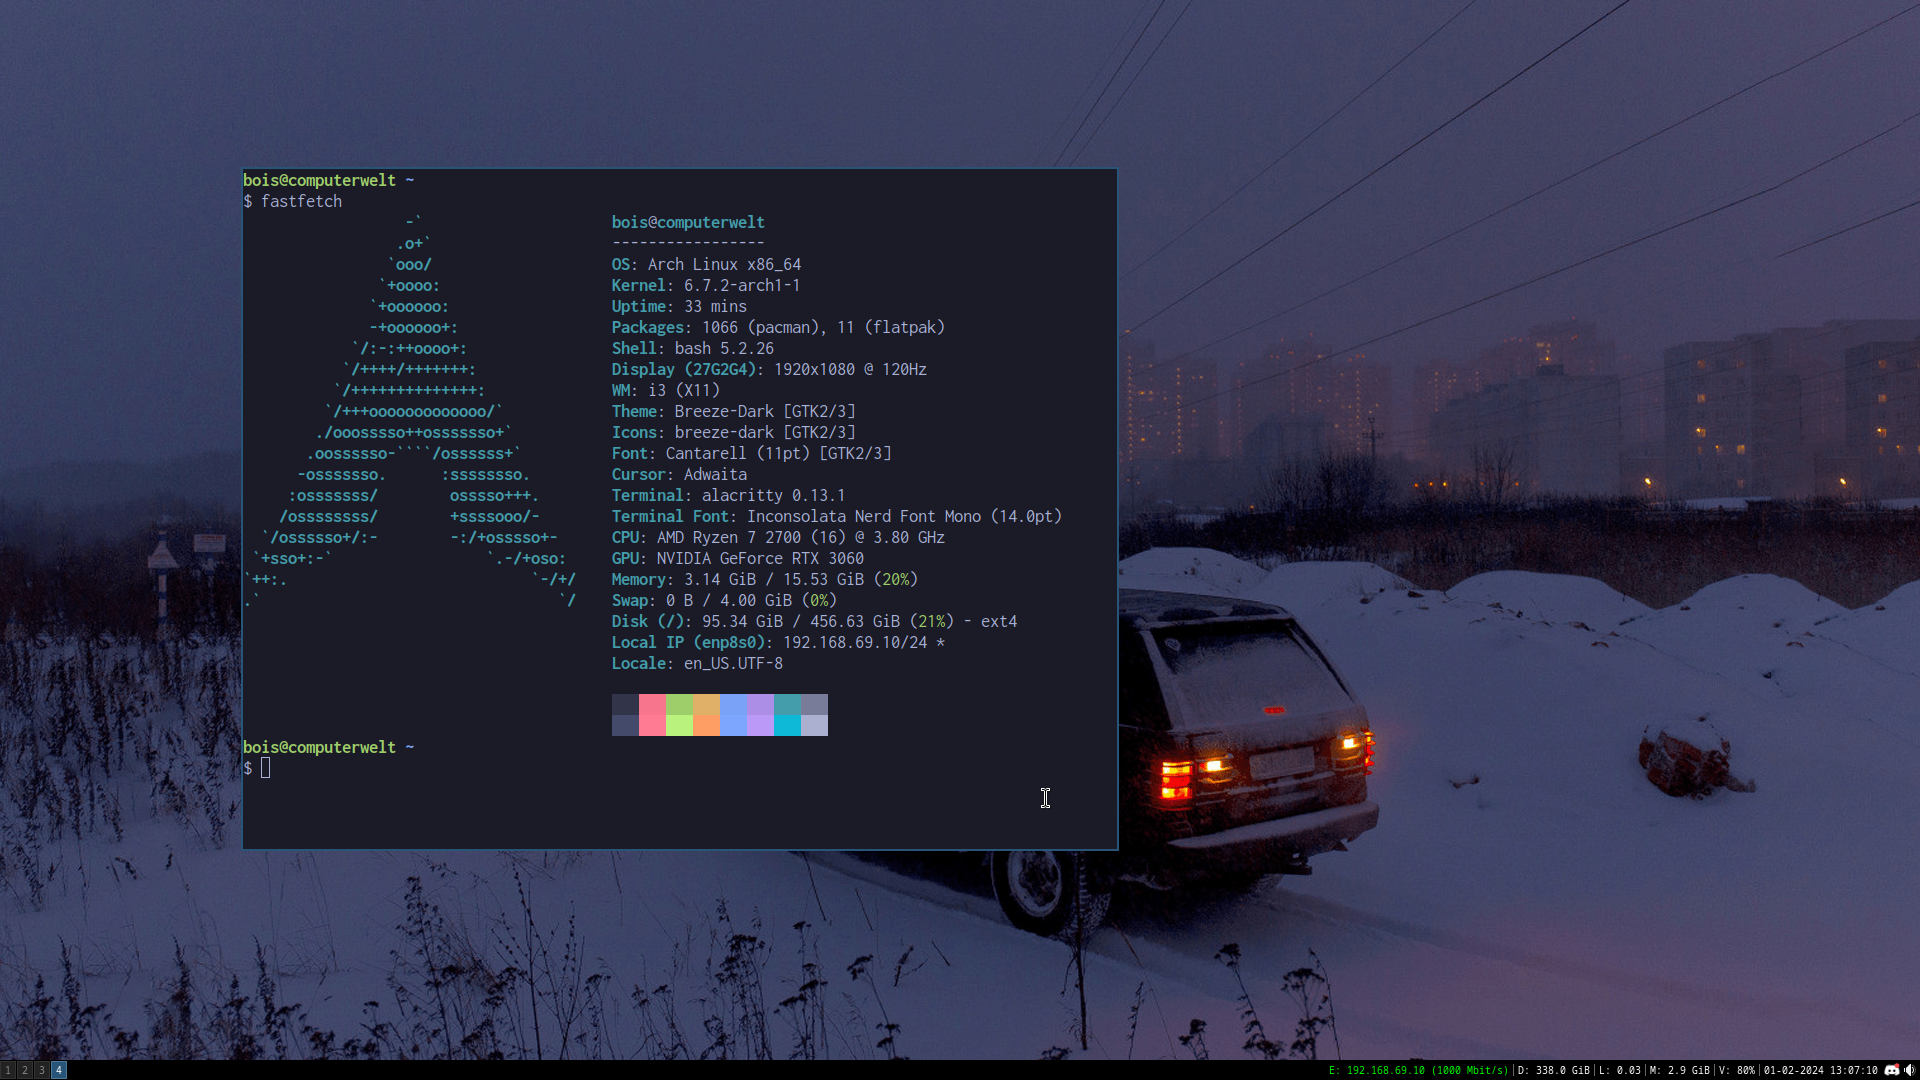
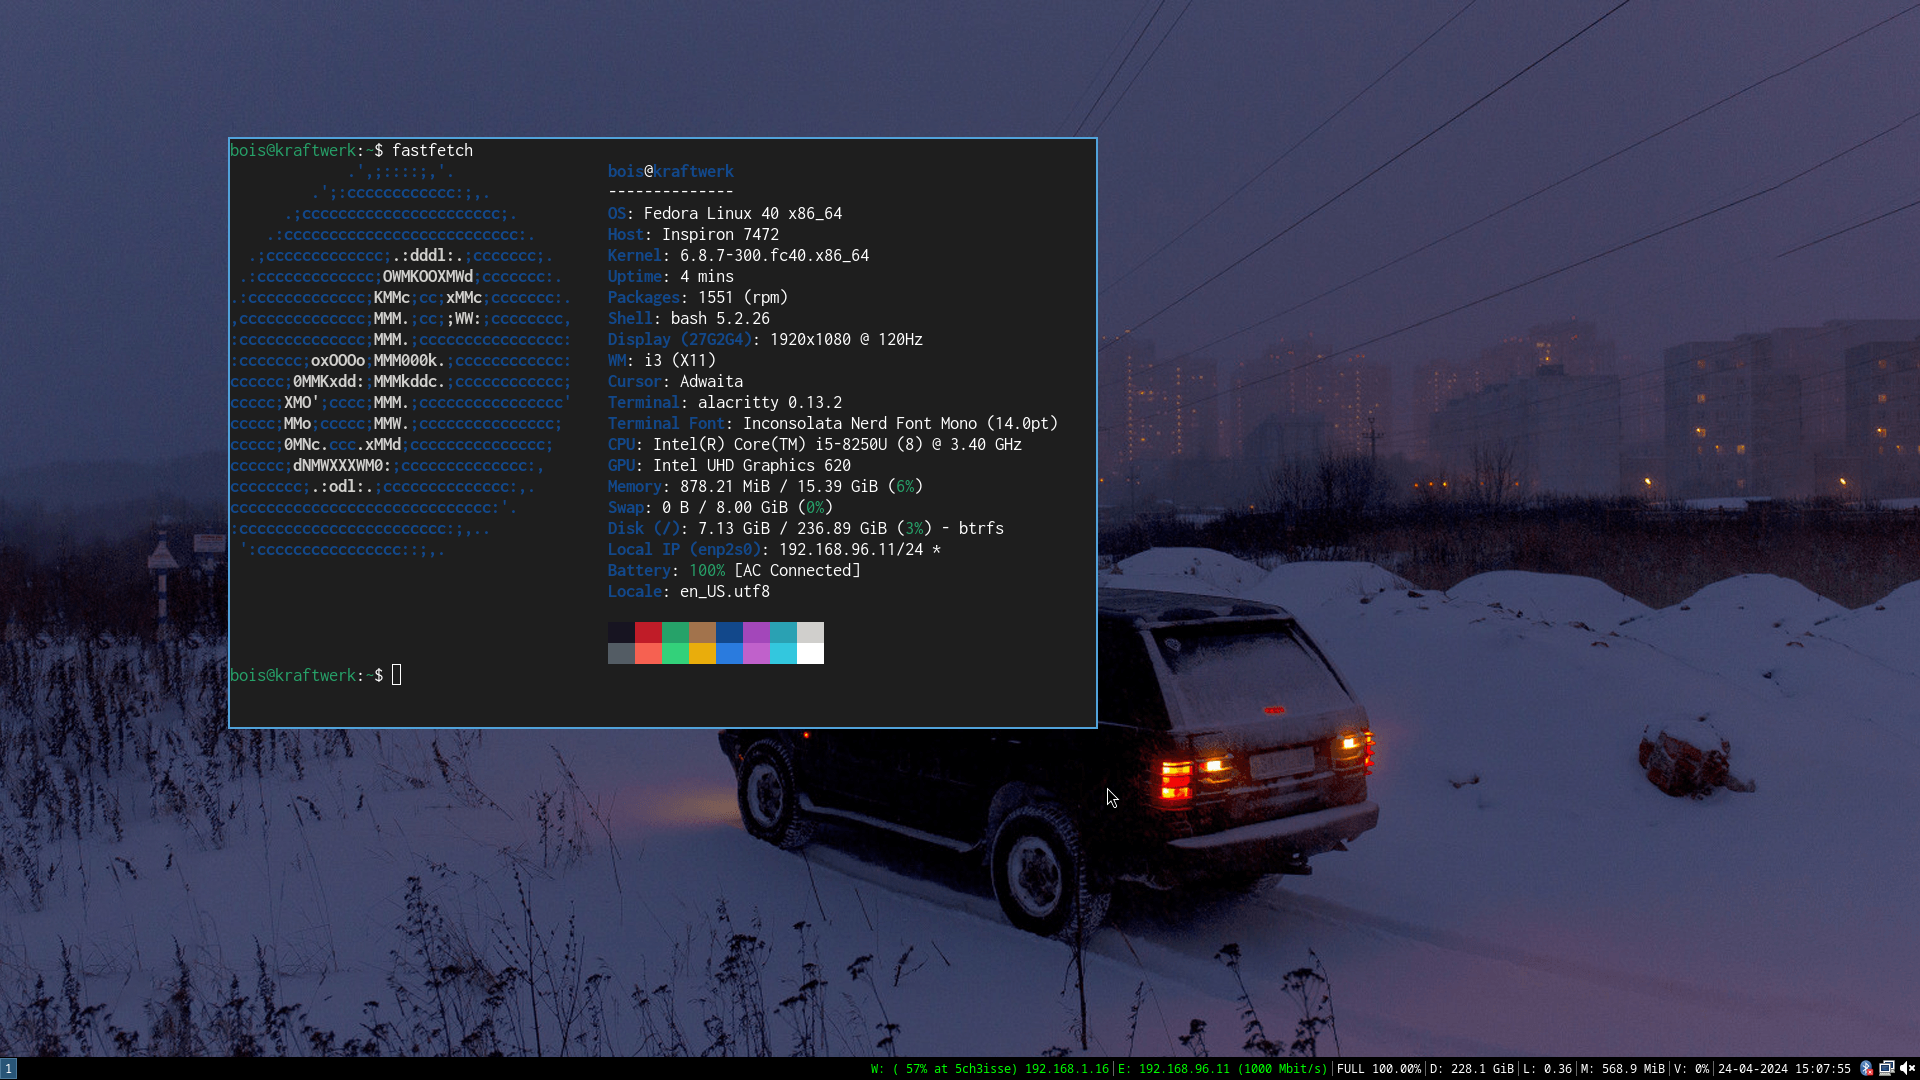
updated readme and desktop picture

Changed region(s): [[0.0938, 0.1222, 0.5938, 0.7944], [0.0, 0.9778, 1.0, 1.0], [0.0938, 0.55, 0.1875, 0.6722]]

diff --git a/README.md b/README.md
@@ -9,7 +9,7 @@ A place to keep my configuration files and scripts
 <details>
   <summary>Operating Systems</summary>
 
-  - Arch Linux for laptops and desktops
+  - Fedora for laptops and desktops
   - Proxmox VE for server machines with multiple VMs
   - Debian for most server deployments
   - OPNsense for DIY routers
